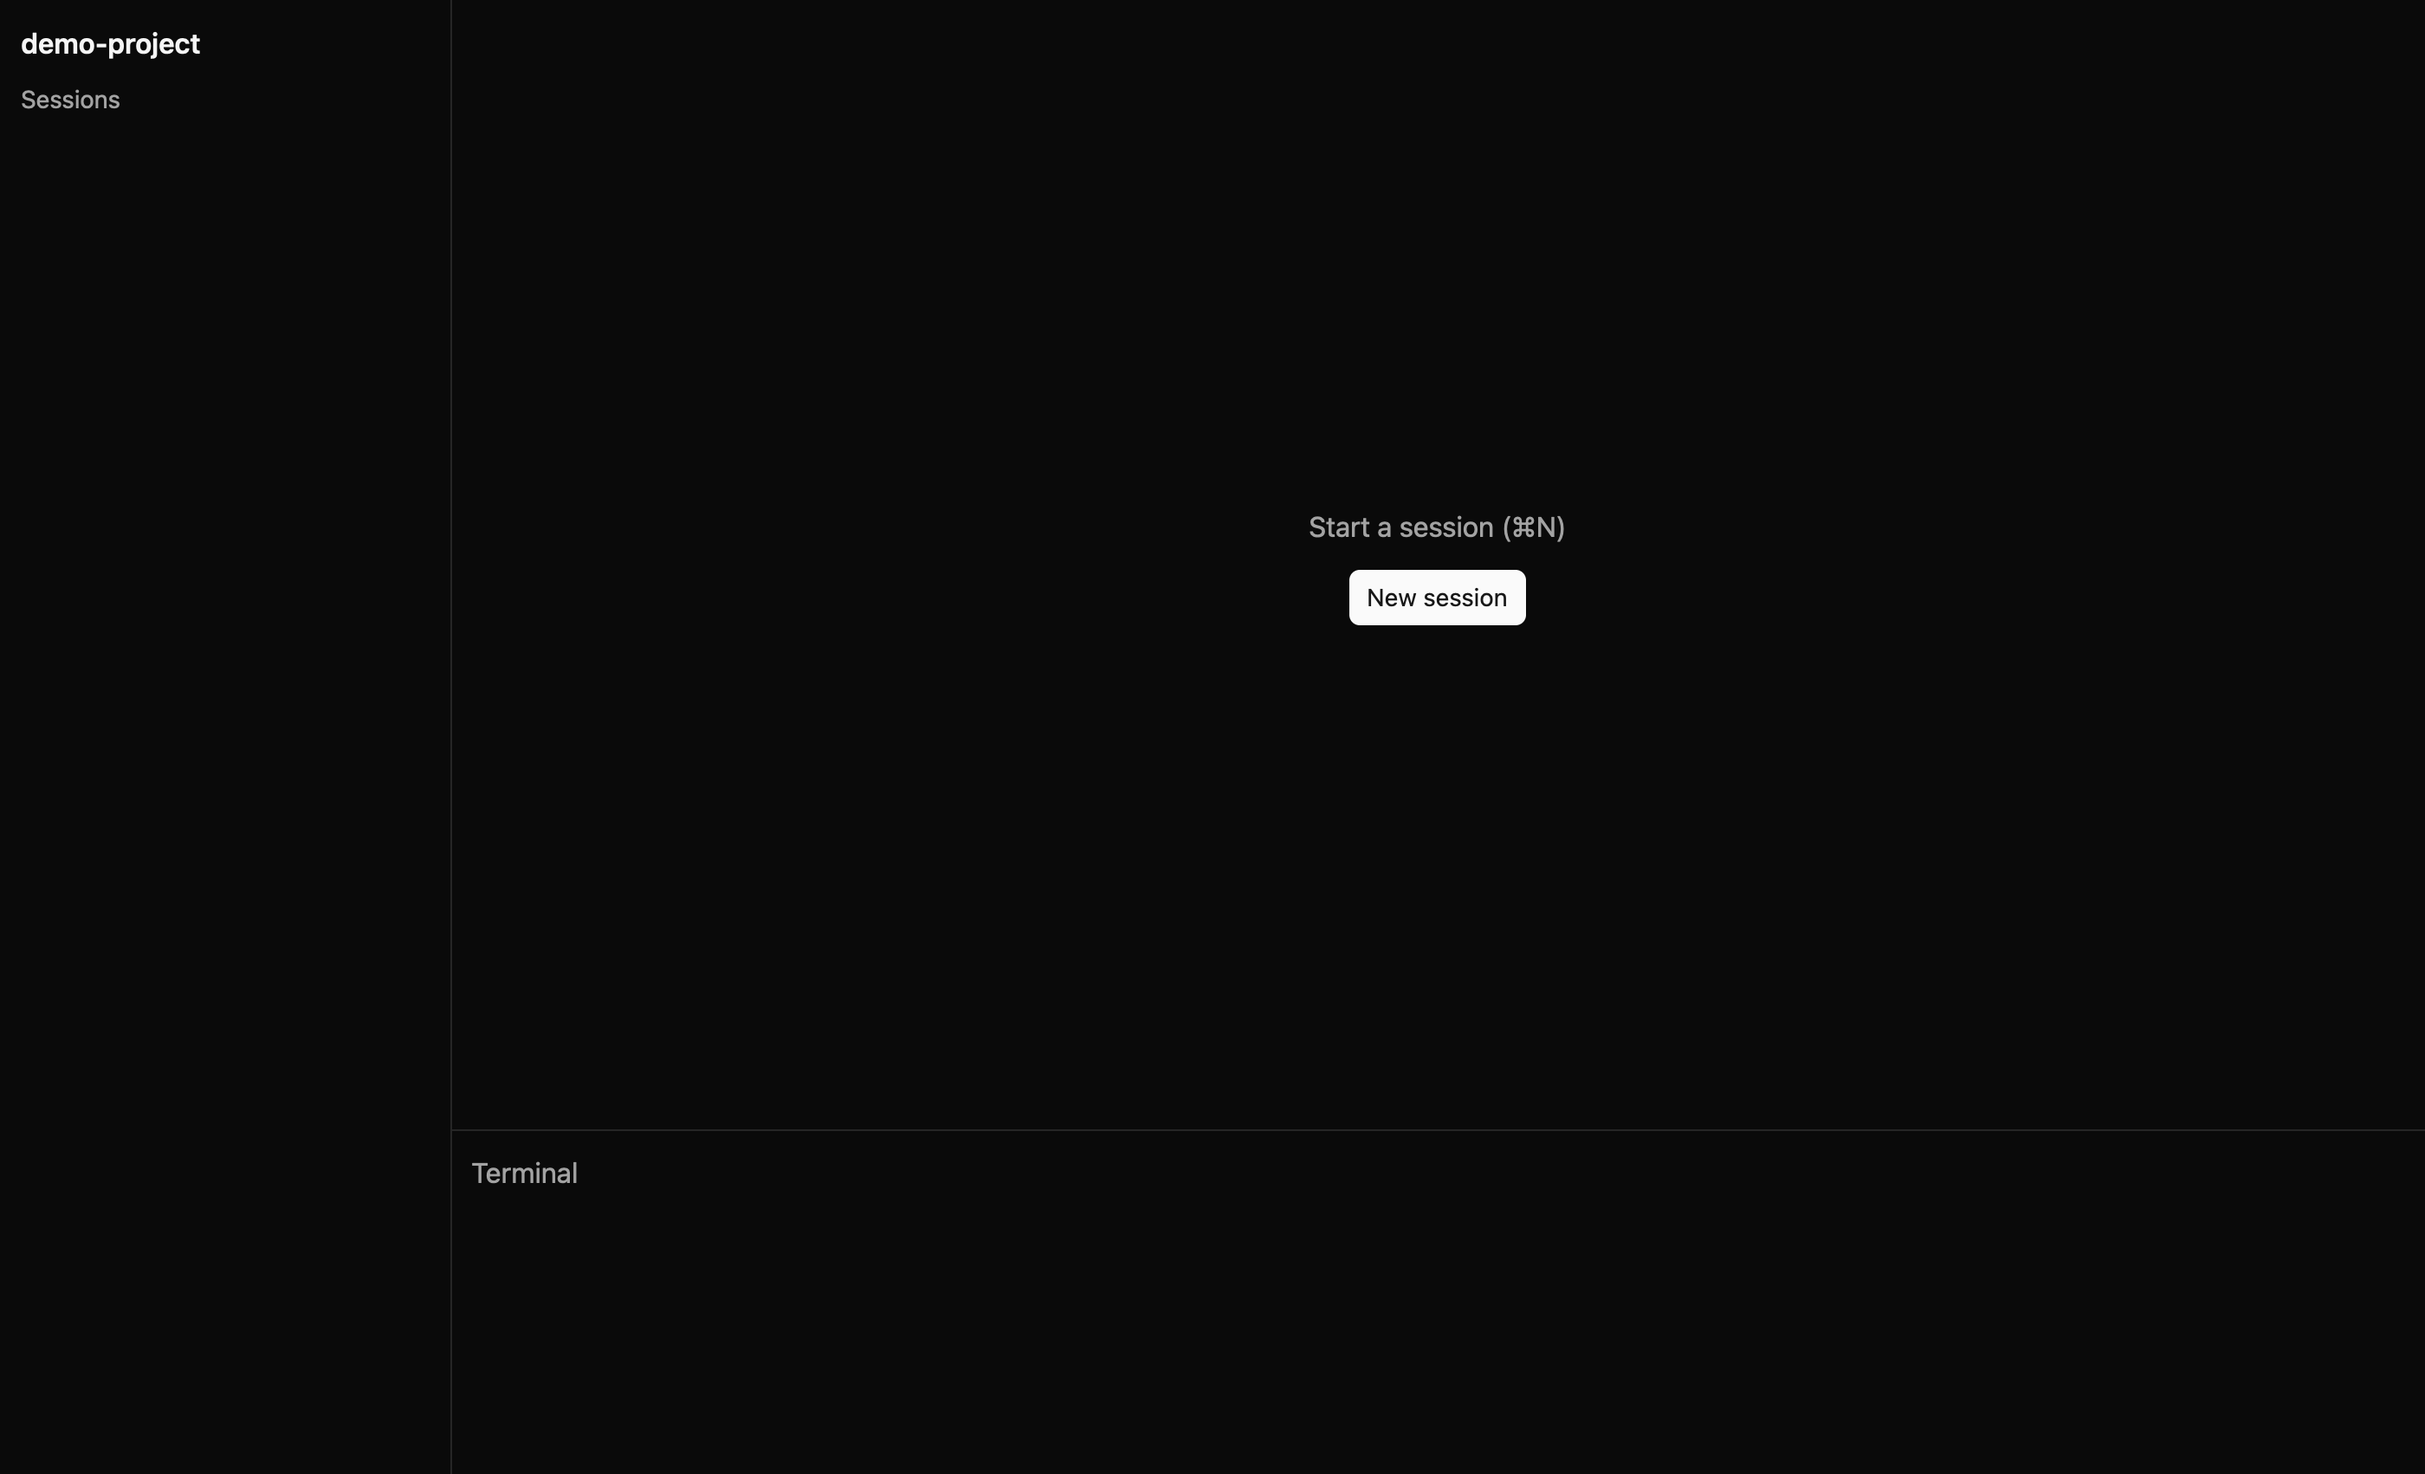
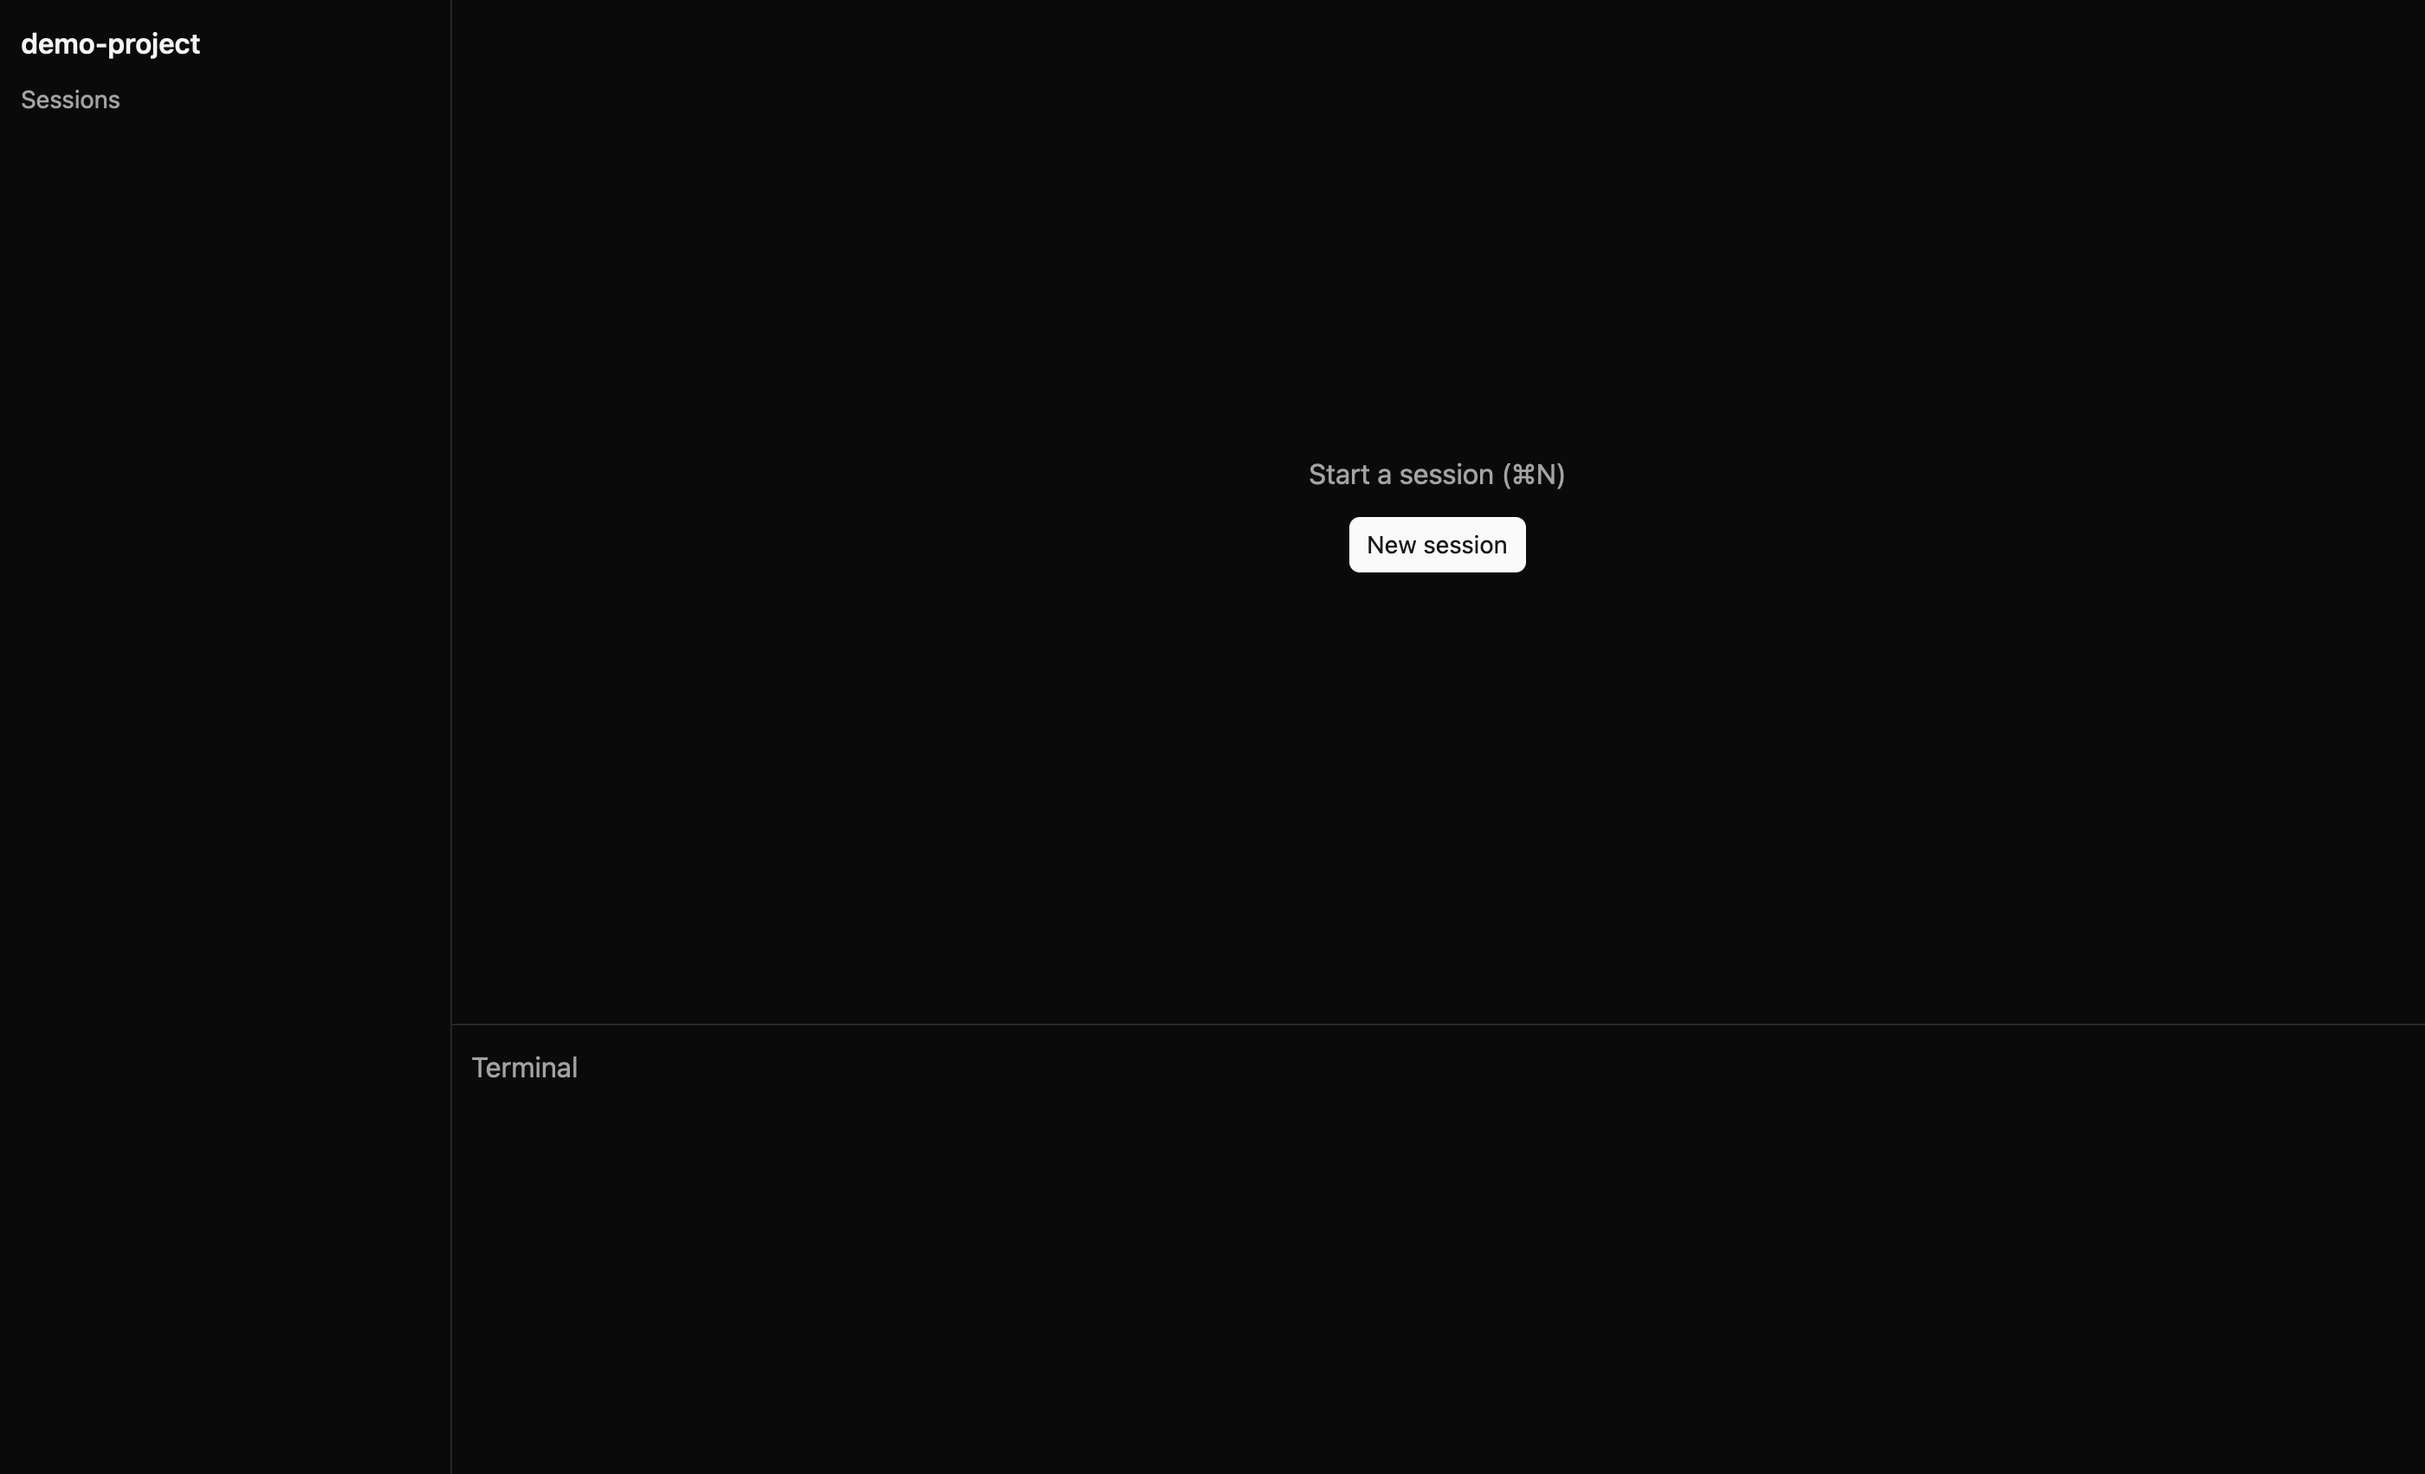
fix: restore agent status after sign-in and fix panel sizes

Changed region(s): [[0.5282, 0.3114, 0.6525, 0.436], [0.1864, 0.7785, 0.2486, 0.8096], [0.1864, 0.7162, 0.2486, 0.7474]]

diff --git a/crates/wai/src/workspace.rs b/crates/wai/src/workspace.rs
@@ -98,6 +98,8 @@ impl Workspace {
             let started = handle.new_session(cwd.clone()).await;
             this.update(cx, |this, cx| match started {
                 Ok(started) => {
+                    // A session that starts proves the agent works (signed in again, say).
+                    this.registry.update(cx, |r, cx| r.mark_ready(&agent, cx));
                     let session = cx.new(|_| ChatSession {
                         agent,
                         id: started.id,
@@ -157,16 +159,21 @@ impl Workspace {
         .detach();
     }
 
-    fn empty_pane(&self, ix: usize, cx: &Context<Self>) -> impl IntoElement {
-        let theme = cx.theme();
+    /// What an empty pane says is wrong with the default agent, if anything.
+    fn agent_problem(&self, cx: &App) -> Option<String> {
         let agent = &self.settings.default_agent;
-        let problem = match self.registry.read(cx).status(agent) {
-            Some(AgentStatus::SignedOut) => Some(format!(
+        match self.registry.read(cx).status(agent)? {
+            AgentStatus::SignedOut => Some(format!(
                 "{agent} is not signed in. Open a terminal and run its login (for Claude: claude /login)."
             )),
-            Some(AgentStatus::Failed(error)) => Some(error.clone()),
+            AgentStatus::Failed(error) => Some(error.clone()),
             _ => None,
-        };
+        }
+    }
+
+    fn empty_pane(&self, ix: usize, cx: &Context<Self>) -> impl IntoElement {
+        let theme = cx.theme();
+        let problem = self.agent_problem(cx);
         v_flex()
             .size_full()
             .items_center()
@@ -208,6 +215,7 @@ impl Render for Workspace {
         });
         // ponytail: sidebar and terminal are placeholders until Tasks 1.7 and 1.8.
         let sidebar = v_flex()
+            .debug_selector(|| "sidebar".into())
             .size_full()
             .p_3()
             .gap_2()
@@ -225,6 +233,7 @@ impl Render for Workspace {
                     .child("Sessions"),
             );
         let terminal = div()
+            .debug_selector(|| "terminal".into())
             .size_full()
             .p_3()
             .text_color(theme.muted_foreground)
@@ -243,7 +252,12 @@ impl Render for Workspace {
             .text_color(theme.foreground)
             .child(
                 h_resizable("workspace")
-                    .child(resizable_panel().size(px(SIDEBAR_WIDTH)).child(sidebar))
+                    .child(
+                        resizable_panel()
+                            .size(px(SIDEBAR_WIDTH))
+                            .fixed()
+                            .child(sidebar),
+                    )
                     .child(
                         resizable_panel().child(
                             v_resizable("center")
@@ -253,6 +267,7 @@ impl Render for Workspace {
                                 .child(
                                     resizable_panel()
                                         .size(px(TERMINAL_HEIGHT))
+                                        .fixed()
                                         .visible(self.terminal_visible)
                                         .child(terminal),
                                 ),
@@ -267,7 +282,8 @@ mod tests {
     use std::path::PathBuf;
     use std::time::{Duration, Instant};
 
-    use gpui_kit::{Entity, TestAppContext, VisualTestContext};
+    use gpui_kit::{Entity, TestAppContext, VisualTestContext, px, size};
+    use wai_agent::PromptBlock;
     use wai_settings::{AgentConfig, Settings};
 
     use super::Workspace;
@@ -283,16 +299,36 @@ mod tests {
         cx.add_window_view(|window, cx| Workspace::new(project, settings, window, cx))
     }
 
-    /// `target/<profile>/wai-fake-agent`; build it first with
-    /// `cargo build -p wai-agent --bin wai-fake-agent`.
-    fn fake_agent() -> PathBuf {
+    /// Settings whose default agent `fake` is `wai-fake-agent <flag>`.
+    fn fake_settings(flag: &str) -> Settings {
+        // `target/<profile>/wai-fake-agent`, next to the test binary's `deps/`.
         let name = format!("wai-fake-agent{}", std::env::consts::EXE_SUFFIX);
-        std::env::current_exe()
+        let fake: PathBuf = std::env::current_exe()
             .unwrap()
             .ancestors()
             .map(|dir| dir.join(&name))
             .find(|path| path.is_file())
-            .expect("run `cargo build -p wai-agent --bin wai-fake-agent` first")
+            .expect("run `cargo build -p wai-agent --bin wai-fake-agent` first");
+        let command = format!("'{}' {flag}", fake.display());
+        Settings {
+            default_agent: "fake".into(),
+            agents: [("fake".into(), AgentConfig { command })].into(),
+            ..Default::default()
+        }
+    }
+
+    /// Real agent I/O runs outside the test scheduler: sleep, run, check, for up to 10 s.
+    fn wait_until(
+        cx: &mut VisualTestContext,
+        what: &str,
+        mut done: impl FnMut(&mut VisualTestContext) -> bool,
+    ) {
+        let deadline = Instant::now() + Duration::from_secs(10);
+        while !done(cx) {
+            assert!(Instant::now() < deadline, "timed out waiting for {what}");
+            std::thread::sleep(Duration::from_millis(20));
+            cx.run_until_parked();
+        }
     }
 
     #[gpui_kit::test]
@@ -314,28 +350,70 @@ mod tests {
     }
 
     #[gpui_kit::test]
+    fn sidebar_and_terminal_keep_260_px(cx: &mut TestAppContext) {
+        let (_, cx) = open(cx, Settings::default());
+        cx.simulate_resize(size(px(1400.), px(900.)));
+        cx.simulate_keystrokes("ctrl-`");
+        for window in [size(px(1400.), px(900.)), size(px(1000.), px(600.))] {
+            cx.simulate_resize(window);
+            cx.run_until_parked();
+            let sidebar = cx.debug_bounds("sidebar").expect("sidebar drawn");
+            let terminal = cx.debug_bounds("terminal").expect("terminal drawn");
+            assert_eq!(
+                (sidebar.size.width, terminal.size.height),
+                (px(260.), px(260.)),
+                "window {window:?}"
+            );
+        }
+    }
+
+    #[gpui_kit::test]
     fn registry_reports_auth_required(cx: &mut TestAppContext) {
         cx.executor().allow_parking(); // the fake agent is a real process
-        let command = format!("'{}' --require-auth", fake_agent().display());
-        let settings = Settings {
-            default_agent: "fake".into(),
-            agents: [("fake".into(), AgentConfig { command })].into(),
-            ..Default::default()
-        };
-        let (workspace, cx) = open(cx, settings);
+        let (workspace, cx) = open(cx, fake_settings("--require-auth"));
         let registry = workspace.read_with(cx, |w, _| w.registry.clone());
 
         cx.simulate_keystrokes("secondary-n");
 
-        let deadline = Instant::now() + Duration::from_secs(10);
-        loop {
-            let status = registry.read_with(cx, |r, _| r.status("fake").cloned());
-            if status == Some(AgentStatus::SignedOut) {
-                break;
-            }
-            assert!(Instant::now() < deadline, "status stayed {status:?}");
-            std::thread::sleep(Duration::from_millis(20));
-            cx.run_until_parked();
-        }
+        wait_until(cx, "SignedOut", |cx| {
+            registry.read_with(cx, |r, _| r.status("fake") == Some(&AgentStatus::SignedOut))
+        });
+    }
+
+    /// claude-agent-acp reports a sign-out when a prompt is sent. After the user signs in, the next
+    /// session that starts on the same live process must bring the agent back to `Ready`.
+    #[gpui_kit::test]
+    fn successful_session_clears_signed_out(cx: &mut TestAppContext) {
+        cx.executor().allow_parking(); // the fake agent is a real process
+        let (workspace, cx) = open(cx, fake_settings("--require-auth-on-prompt"));
+        let registry = workspace.read_with(cx, |w, _| w.registry.clone());
+
+        cx.simulate_keystrokes("secondary-n");
+        wait_until(cx, "a session", |cx| {
+            workspace.read_with(cx, |w, _| w.panes[0].is_some())
+        });
+        let session =
+            workspace.read_with(cx, |w, cx| w.panes[0].as_ref().unwrap().read(cx).id.clone());
+        let handle = registry.update(cx, |r, cx| r.handle("fake", cx)).unwrap();
+        handle.prompt(session, vec![PromptBlock::Text("hi".into())]);
+        wait_until(cx, "SignedOut", |cx| {
+            registry.read_with(cx, |r, _| r.status("fake") == Some(&AgentStatus::SignedOut))
+        });
+        assert_eq!(
+            workspace
+                .read_with(cx, |w, cx| w.agent_problem(cx))
+                .as_deref(),
+            Some(
+                "fake is not signed in. Open a terminal and run its login (for Claude: claude /login)."
+            )
+        );
+
+        cx.simulate_keystrokes("secondary-n");
+        wait_until(cx, "Ready", |cx| {
+            registry.read_with(cx, |r, _| {
+                matches!(r.status("fake"), Some(AgentStatus::Ready(_)))
+            })
+        });
+        assert_eq!(workspace.read_with(cx, |w, cx| w.agent_problem(cx)), None);
     }
 }

diff --git a/crates/wai/src/agents.rs b/crates/wai/src/agents.rs
@@ -35,6 +35,8 @@ pub enum RegistryEvent {
 struct Agent {
     handle: AgentHandle,
     status: AgentStatus,
+    /// From `Ready`, kept so `mark_ready` can restore it after a sign-out.
+    caps: Option<AgentCaps>,
     _pump: Task<()>,
 }
 
@@ -91,6 +93,7 @@ impl AgentRegistry {
             Agent {
                 handle: handle.clone(),
                 status: AgentStatus::Starting,
+                caps: None,
                 _pump: pump,
             },
         );
@@ -103,15 +106,30 @@ impl AgentRegistry {
     }
 
     pub fn set_status(&mut self, name: &str, status: AgentStatus, cx: &mut Context<Self>) {
-        if let Some(agent) = self.agents.get_mut(name) {
+        if let Some(agent) = self.agents.get_mut(name)
+            && agent.status != status
+        {
             agent.status = status;
             cx.emit(RegistryEvent::StatusChanged(name.into()));
         }
     }
 
+    /// Back to `Ready` once the agent did real work again: call it after a successful
+    /// `new_session`/`load_session` or a turn that did not end in a sign-out. No-op before `Ready`.
+    pub fn mark_ready(&mut self, name: &str, cx: &mut Context<Self>) {
+        if let Some(caps) = self.agents.get(name).and_then(|agent| agent.caps) {
+            self.set_status(name, AgentStatus::Ready(caps), cx);
+        }
+    }
+
     fn apply(&mut self, agent: &str, event: AgentEvent, cx: &mut Context<Self>) {
         let status = match event {
-            AgentEvent::Ready { caps, .. } => AgentStatus::Ready(caps),
+            AgentEvent::Ready { caps, .. } => {
+                if let Some(entry) = self.agents.get_mut(agent) {
+                    entry.caps = Some(caps);
+                }
+                AgentStatus::Ready(caps)
+            }
             AgentEvent::AuthRequired { .. } => AgentStatus::SignedOut,
             AgentEvent::Exited { error } => {
                 AgentStatus::Failed(error.unwrap_or_else(|| "the agent exited".into()))

diff --git a/crates/wai/src/app.rs b/crates/wai/src/app.rs
@@ -99,17 +99,21 @@ fn screenshot(
 ) {
     cx.spawn(async move |cx| {
         cx.background_executor().timer(Duration::from_secs(2)).await;
-        let image = window.update(cx, |_, window, cx| {
-            workspace.update(cx, |w, cx| {
-                w.terminal_visible = true;
-                cx.notify();
-            });
-            // The resizable groups settle their sizes over a couple of frames.
-            for _ in 0..3 {
-                window.draw(cx).clear(cx);
-            }
-            window.render_to_image()
+        workspace.update(cx, |w, cx| {
+            w.terminal_visible = true;
+            cx.notify();
         });
+        // A resizable group settles its sizes in a notify deferred past the draw, so each
+        // draw gets its own update.
+        for _ in 0..3 {
+            window
+                .update(cx, |_, window, cx| window.draw(cx).clear(cx))
+                .ok();
+            cx.background_executor()
+                .timer(Duration::from_millis(100))
+                .await;
+        }
+        let image = window.update(cx, |_, window, _| window.render_to_image());
         match image.and_then(|image| Ok(image?.save(&path)?)) {
             Ok(()) => eprintln!("wai: screenshot saved to {path}"),
             Err(e) => eprintln!("wai: screenshot failed: {e}"),
